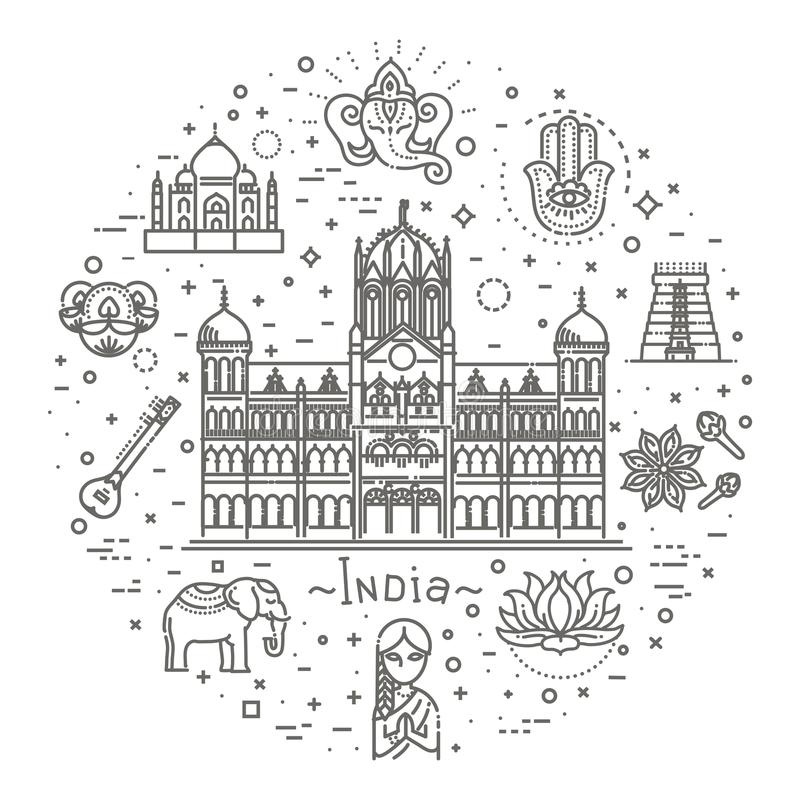
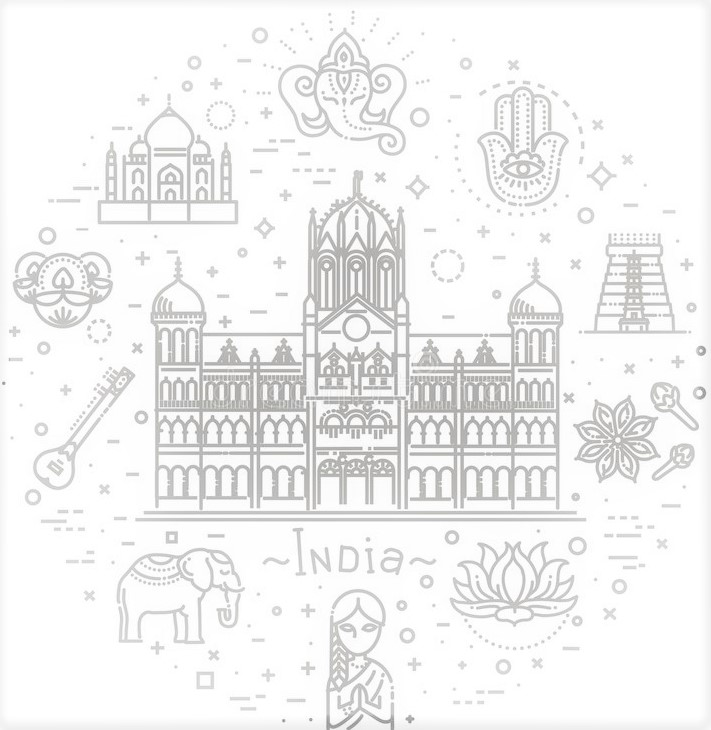
updated

diff --git a/redfort.html b/redfort.html
@@ -2,6 +2,11 @@
 <!doctype html>
 <html lang="en">
 <head>
+  <style>
+    body {
+      background:transparent url('background-img/B.jpg') repeat center top;
+    }
+  </style>
 	<title>Red Fort</title>
 	<meta charset="utf-8">
 	<meta http-equiv="X-UA-Compatible" content="IE=edge">
@@ -32,6 +37,7 @@
 		<ul class="links">
   			<li><a href="monuments.html" target="_blank">Home</a></li>
   			<li><a href="http://delhitourism.gov.in/delhitourism/tourist_place/red_fort.jsp" target="_blank">Official Site</a></li>
+        <li><a href="https://www.gettyimages.in/photos/redfort?mediatype=photography&phrase=redfort&sort=mostpopular" target="_blank">Gallery</a></li>
  	 	    <li><a href="https://en.wikipedia.org/wiki/Red_Fort" target="_blank">Wikipedia</a></li>
   			<li><a href="https://en.wikipedia.org/api/rest_v1/page/pdf/Red_Fort" target="_blank">Detail Download</a></li>
   			<li><a href="https://www.google.com/maps/place/Red+Fort/@28.6561592,77.2410203,3a,90y,354.74h,85.43t/data=!3m8!1e1!3m6!1sAF1QipMuHg-T-9O-I_WpVT_ptm3bt-t1Erjwh_Vy1mVc!2e10!3e11!6shttps:%2F%2Flh5.googleusercontent.com%2Fp%2FAF1QipMuHg-T-9O-I_WpVT_ptm3bt-t1Erjwh_Vy1mVc%3Dw203-h100-k-no-pi-8.890676-ya50.659164-ro0-fo100!7i4608!8i2304!4m7!3m6!1s0x390cfce26ec085ef:0x441e32f4fa5002fb!8m2!3d28.6561592!4d77.2410203!14m1!1BCgIgARICCAI" target="_blank">360 Tour</a></li>

diff --git a/lotustemple.html b/lotustemple.html
@@ -2,6 +2,11 @@
 <!doctype html>
 <html lang="en">
 <head>
+  <style>
+    body {
+      background:transparent url('background-img/C.jpg') repeat center top;
+    }
+  </style>
 	<title>Lotus Temple</title>
 	<meta charset="utf-8">
 	<meta http-equiv="X-UA-Compatible" content="IE=edge">
@@ -13,11 +18,6 @@
 	<link rel="stylesheet" href="css/styles.css">
 	<link href="https://fonts.googleapis.com/css2?family=Metal+Mania&display=swap" rel="stylesheet">
 	<link href="https://fonts.googleapis.com/css2?family=Oxygen&display=swap" rel="stylesheet">
-  <style>
-    body {
-      background-image: url('img_girl.jpg');
-    }
-  </style>
 </head>
 <body>
 <! –– HEADER ––>

diff --git a/qutubminar.html b/qutubminar.html
@@ -2,6 +2,11 @@
 <!doctype html>
 <html lang="en">
 <head>
+  <style>
+    body {
+      background:transparent url('background-img/D.jpg') repeat center top;
+    }
+  </style>
 	<title>Qutub Minar</title>
 	<meta charset="utf-8">
 	<meta http-equiv="X-UA-Compatible" content="IE=edge">
@@ -13,11 +18,6 @@
 	<link rel="stylesheet" href="css/styles.css">
 	<link href="https://fonts.googleapis.com/css2?family=Metal+Mania&display=swap" rel="stylesheet">
 	<link href="https://fonts.googleapis.com/css2?family=Oxygen&display=swap" rel="stylesheet">
-  <style>
-    body {
-      background-image: url('img_girl.jpg');
-    }
-  </style>
 </head>
 <body>
 <! –– HEADER ––>

diff --git a/tajmahal.html b/tajmahal.html
@@ -2,6 +2,11 @@
 <!doctype html>
 <html lang="en">
 <head>
+  <style>
+    body {
+      background:transparent url('background-img/A.jpg') repeat center top;
+    }
+  </style>
 	<title>Taj Mahal</title>
 	<meta charset="utf-8">
 	<meta http-equiv="X-UA-Compatible" content="IE=edge">
@@ -13,11 +18,6 @@
 	<link rel="stylesheet" href="css/styles.css">
 	<link href="https://fonts.googleapis.com/css2?family=Metal+Mania&display=swap" rel="stylesheet">
 	<link href="https://fonts.googleapis.com/css2?family=Oxygen&display=swap" rel="stylesheet">
-  <style>
-    body {
-      background-image: url('img_girl.jpg');
-    }
-  </style>
 </head>
 <body>
 <! –– HEADER ––>

diff --git a/monuments.html b/monuments.html
@@ -2,6 +2,11 @@
 <!doctype html>
 <html lang="en">
 <head>
+  <style>
+    body {
+      background:transparent url('background-img/monuments.jpg') repeat center top;
+    }
+  </style>
 	<title></title>
 	<meta charset="utf-8">
 	<meta http-equiv="X-UA-Compatible" content="IE=edge">
@@ -13,6 +18,7 @@
 	<link rel="stylesheet" href="css/styles.css">
 	<link href="https://fonts.googleapis.com/css2?family=Metal+Mania&display=swap" rel="stylesheet">
 	<link href="https://fonts.googleapis.com/css2?family=Oxygen&display=swap" rel="stylesheet">
+
 </head>
 <body>
 <! –– HEADER ––>

diff --git a/css/styles.css b/css/styles.css
@@ -3,7 +3,6 @@
 
 body {
   background-attachment: scroll;
-  background: url('../background.jpg') repeat center top;
   font-family: 'Oxygen', sans-serif;
   margin-top: 0px;
   margin-bottom: 0x;
@@ -172,11 +171,11 @@ li a:active {
   animation-duration: 4s;
 }
 @-webkit-keyframes fade {
-  from {opacity: .8} 
+  from {opacity: .95} 
   to {opacity: 1}
 }
 @keyframes fade {
-  from {opacity: .8} 
+  from {opacity: .95} 
   to {opacity: 1}
 }
 /** MAIN BODY CSS STYLES **/
